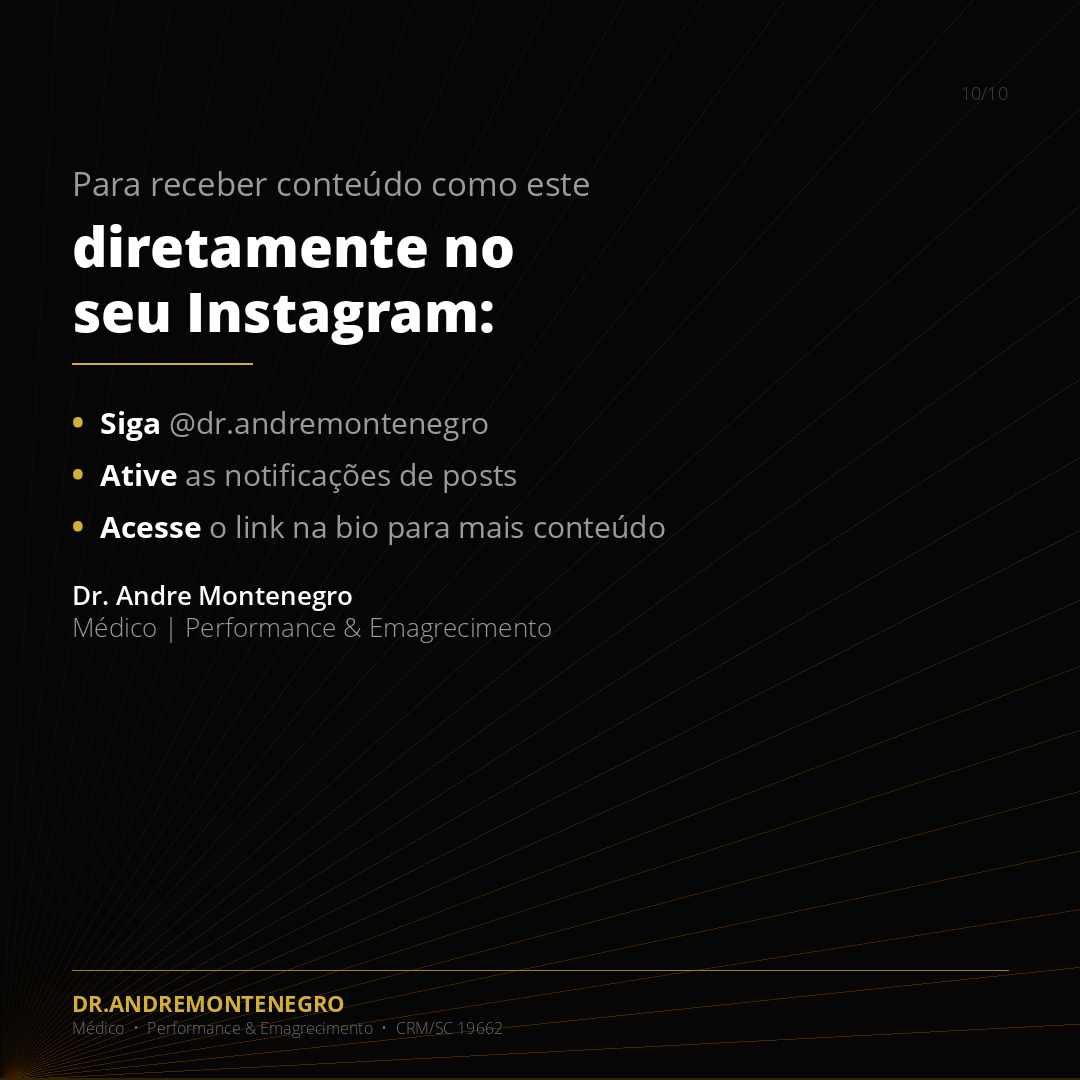
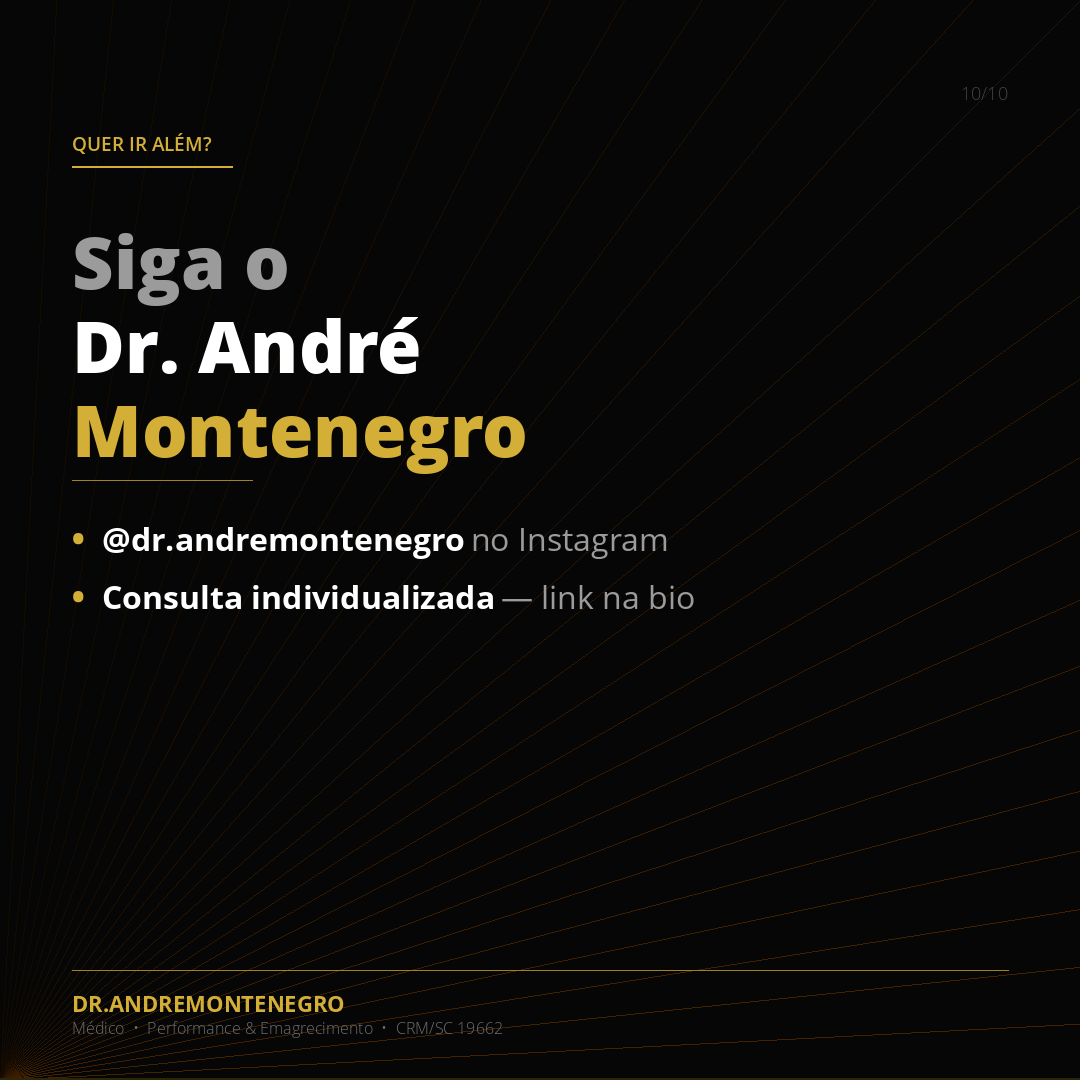
feat: update CTA slide — siga Dr. André + consulta individualizada link na bio
https://claude.ai/code/session_012AyfZYBtbdVLNTvaXHtXTv

Changed region(s): [[0.0611, 0.2139, 0.6417, 0.6111], [0.0611, 0.1222, 0.55, 0.1833]]

diff --git a/carousel/generate_carousel.py b/carousel/generate_carousel.py
@@ -272,44 +272,41 @@ def slide_cta():
     draw = bg_cover(img)
     slide_num(draw, TOTAL)
 
-    y = 160
+    y = 130
     max_w = W - PAD * 2
 
-    tf = ImageFont.truetype(F_R, 33)
-    draw.text((PAD, y), "Para receber conteúdo como este", font=tf, fill=DIMGRAY)
-    y += 48
+    # top label
+    lf_sm = ImageFont.truetype(F_SB, 19)
+    draw.text((PAD, y), "QUER IR ALÉM?", font=lf_sm, fill=GOLD)
+    y += 36
+    draw.line([(PAD, y), (PAD + 160, y)], fill=GOLD, width=2)
+    y += 46
 
-    bf = ImageFont.truetype(F_XB, 55)
-    draw.text((PAD, y), "diretamente no", font=bf, fill=WHITE)
-    y += 65
-    draw.text((PAD, y), "seu Instagram:",  font=bf, fill=WHITE)
-    y += 90
+    # main call-to-action headline
+    xl = ImageFont.truetype(F_XB, 72)
+    draw.text((PAD, y), "Siga o",         font=xl, fill=DIMGRAY); y += 84
+    draw.text((PAD, y), "Dr. André",      font=xl, fill=WHITE);   y += 84
+    draw.text((PAD, y), "Montenegro",     font=xl, fill=GOLD);    y += 100
 
-    draw.line([(PAD, y), (PAD + 180, y)], fill=GOLD, width=2)
-    y += 38
+    # separator
+    draw.line([(PAD, y), (PAD + 180, y)], fill=GOLD_DIM, width=1)
+    y += 36
 
     # bullet items
-    items = [
-        ("Siga",            "@dr.andremontenegro"),
-        ("Ative",           "as notificações de posts"),
-        ("Acesse",          "o link na bio para mais conteúdo"),
-    ]
-    lf  = ImageFont.truetype(F_R,  30)
-    lbf = ImageFont.truetype(F_B,  30)
-    dot = ImageFont.truetype(F_XB, 30)
-    for verb, rest in items:
-        draw.text((PAD,      y), "•",    font=dot, fill=GOLD)
-        draw.text((PAD + 28, y), verb,   font=lbf, fill=WHITE)
-        vw = draw.textlength(verb + " ", font=lbf)
-        draw.text((PAD + 28 + vw, y), rest, font=lf, fill=DIMGRAY)
-        y += 52
+    lf  = ImageFont.truetype(F_R,  32)
+    lbf = ImageFont.truetype(F_B,  32)
+    dot = ImageFont.truetype(F_XB, 32)
 
-    # signature
-    y += 20
-    sig_f = ImageFont.truetype(F_L, 26)
-    sig_b = ImageFont.truetype(F_SB, 26)
-    draw.text((PAD, y), "Dr. Andre Montenegro",    font=sig_b, fill=WHITE)
-    draw.text((PAD, y + 32), "Médico | Performance & Emagrecimento", font=sig_f, fill=DIMGRAY)
+    items = [
+        ("@dr.andremontenegro",       "no Instagram"),
+        ("Consulta individualizada", "— link na bio"),
+    ]
+    for bold_part, light_part in items:
+        draw.text((PAD, y), "•", font=dot, fill=GOLD)
+        draw.text((PAD + 30, y), bold_part, font=lbf, fill=WHITE)
+        bw = draw.textlength(bold_part, font=lbf)
+        draw.text((PAD + 30 + bw + 6, y), light_part, font=lf, fill=DIMGRAY)
+        y += 58
 
     branding(draw, arrow=False)
     return img
